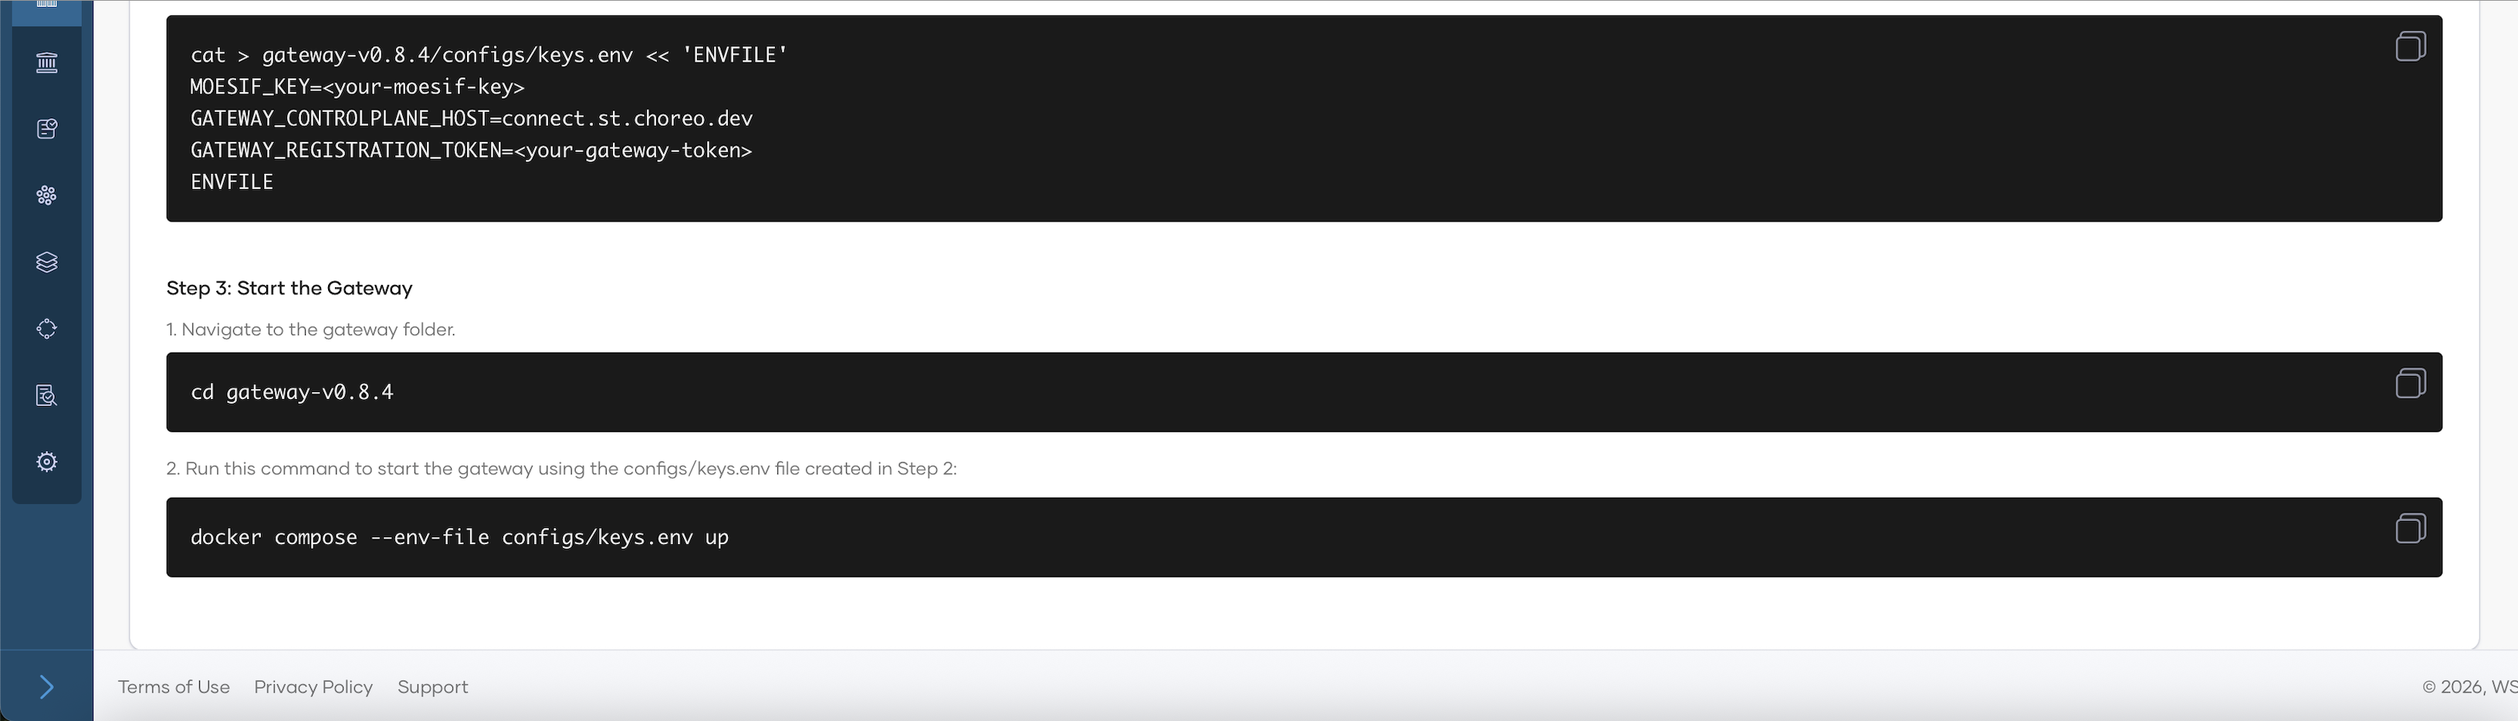
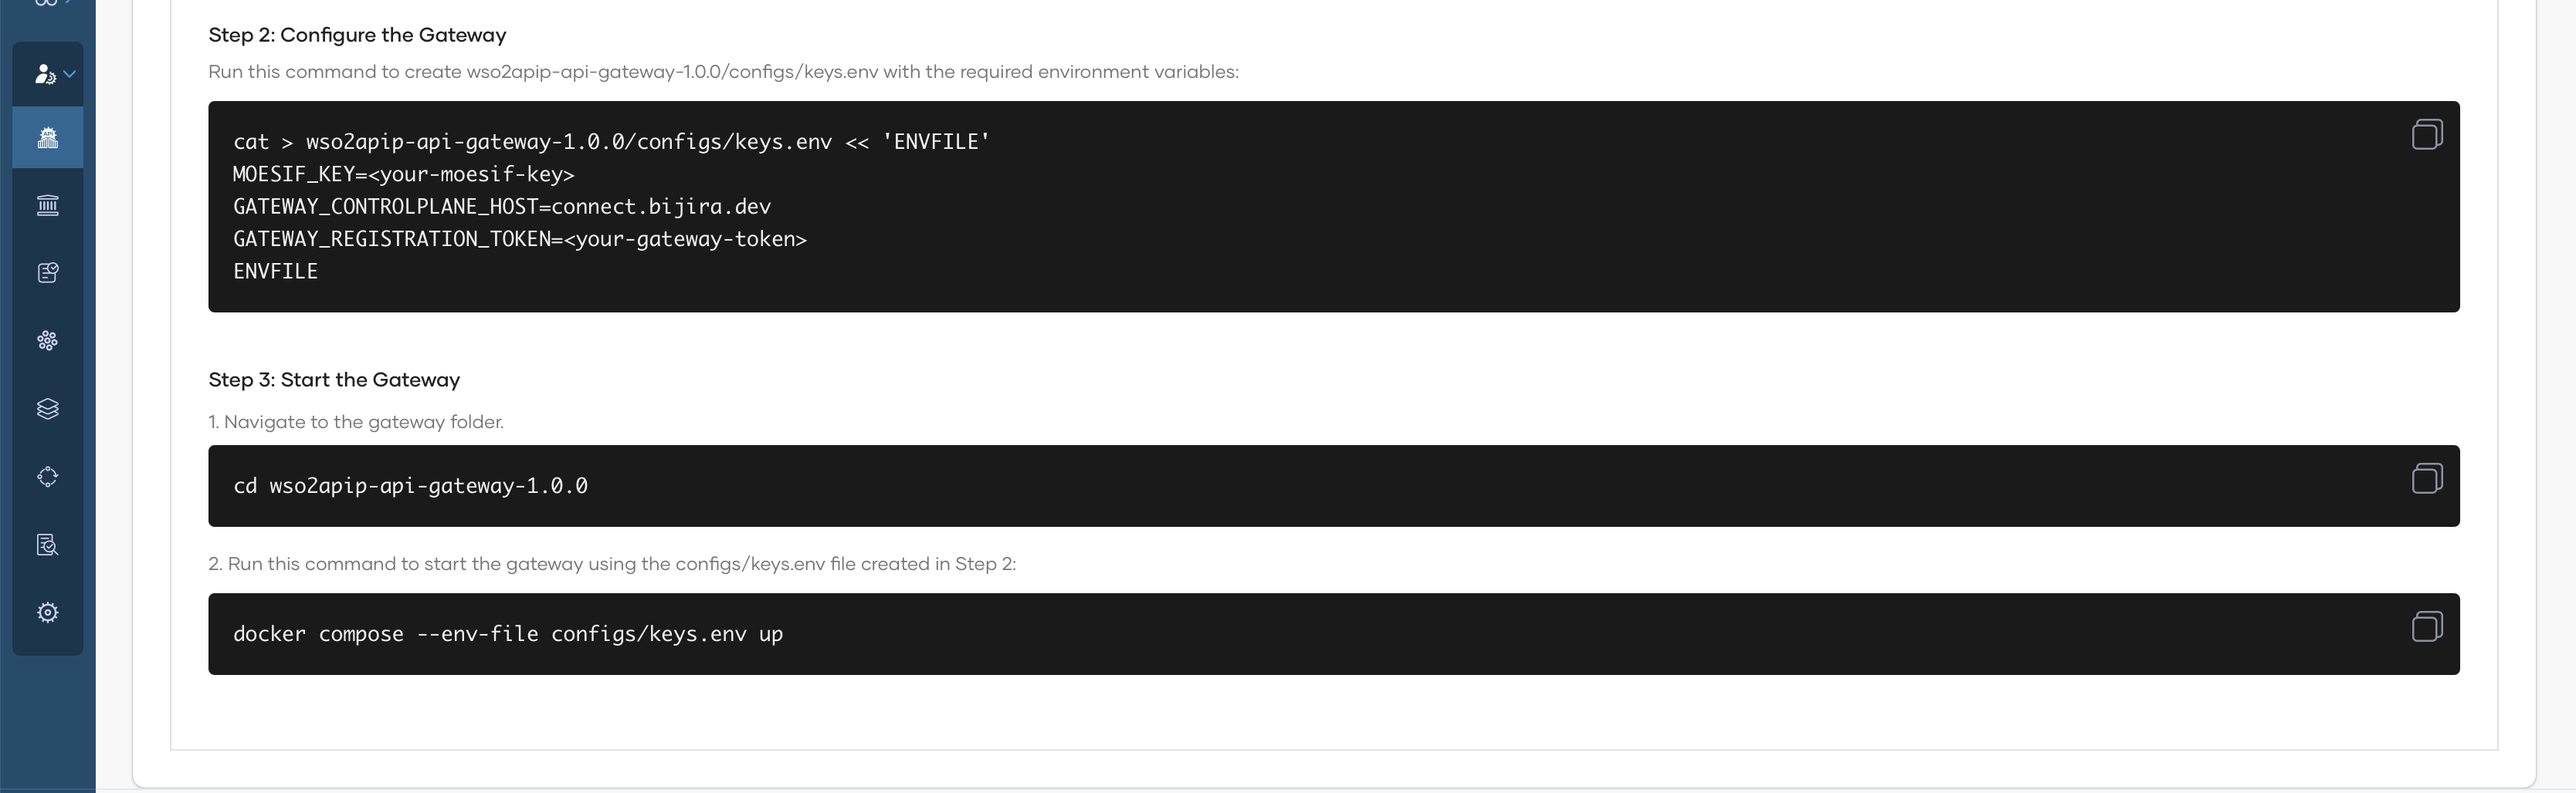
update self hosted gw setup commands to GA

diff --git a/en/docs/ai-gateway/ai-workspace/ai-gateways/setting-up.md b/en/docs/ai-gateway/ai-workspace/ai-gateways/setting-up.md
@@ -78,8 +78,8 @@ The Get Started section provides setup instructions for multiple deployment opti
     Run this command in your terminal to download the gateway:
 
     ```bash
-    curl -sLO https://github.com/wso2/api-platform/releases/download/ai-gateway/v0.8.4/ai-gateway-v0.8.4.zip && \
-    unzip ai-gateway-v0.8.4.zip
+    curl -sLO https://github.com/wso2/api-platform/releases/download/ai-gateway/v1.0.0/wso2apip-ai-gateway-1.0.0.zip && \
+    unzip wso2apip-ai-gateway-1.0.0.zip
     ```
 
     **Step 2: Configure the Gateway**
@@ -87,8 +87,9 @@ The Get Started section provides setup instructions for multiple deployment opti
     Run this command to create the environment configuration file with the required environment variables:
 
     ```bash
-    cat > ai-gateway-v0.8.4/configs/keys.env << 'ENVFILE'
-    GATEWAY_CONTROLPLANE_HOST=platform-api.preview-dv.choreo.dev
+    cat > wso2apip-ai-gateway-1.0.0/configs/keys.env << 'ENVFILE'
+    MOESIF_KEY=<your-moesif-key>
+    GATEWAY_CONTROLPLANE_HOST=connect.bijira.dev
     GATEWAY_REGISTRATION_TOKEN=<your-gateway-token>
     ENVFILE
     ```
@@ -100,7 +101,7 @@ The Get Started section provides setup instructions for multiple deployment opti
     1. Navigate to the gateway folder:
 
         ```bash
-        cd ai-gateway-v0.8.4
+        cd wso2apip-ai-gateway-1.0.0
         ```
 
     2. Run this command to start the gateway using the environment file created in Step 2:
@@ -132,8 +133,8 @@ The Get Started section provides setup instructions for multiple deployment opti
     Run this command in your terminal to download the gateway:
 
     ```bash
-    curl -sLO https://github.com/wso2/api-platform/releases/download/ai-gateway/v0.8.4/ai-gateway-v0.8.4.zip && \
-    unzip ai-gateway-v0.8.4.zip
+    curl -sLO https://github.com/wso2/api-platform/releases/download/ai-gateway/v1.0.0/wso2apip-ai-gateway-1.0.0.zip && \
+    unzip wso2apip-ai-gateway-1.0.0.zip
     ```
 
     **Step 2: Configure the Gateway**
@@ -145,7 +146,7 @@ The Get Started section provides setup instructions for multiple deployment opti
     1. Navigate to the gateway folder:
 
         ```bash
-        cd ai-gateway-v0.8.4
+        cd wso2apip-ai-gateway-1.0.0
         ```
 
     2. Run this command to start the gateway using the environment file created in Step 2:
@@ -165,8 +166,8 @@ The Get Started section provides setup instructions for multiple deployment opti
     Run this command in your terminal to download the gateway:
 
     ```bash
-    curl -sLO https://github.com/wso2/api-platform/releases/download/ai-gateway/v0.8.4/ai-gateway-v0.8.4.zip && \
-    unzip ai-gateway-v0.8.4.zip
+    curl -sLO https://github.com/wso2/api-platform/releases/download/ai-gateway/v1.0.0/wso2apip-ai-gateway-1.0.0.zip && \
+    unzip wso2apip-ai-gateway-1.0.0.zip
     ```
 
     **Step 2: Configure the Gateway**
@@ -178,7 +179,7 @@ The Get Started section provides setup instructions for multiple deployment opti
     1. Navigate to the gateway folder:
 
         ```bash
-        cd ai-gateway-v0.8.4
+        cd wso2apip-ai-gateway-1.0.0
         ```
 
     2. Run this command to start the gateway using the environment file created in Step 2:
@@ -202,7 +203,7 @@ The Get Started section provides setup instructions for multiple deployment opti
     Run this command to install the gateway chart with control plane configurations:
 
     ```bash
-    helm install gateway oci://ghcr.io/wso2/api-platform/helm-charts/gateway --version 0.8.4 \
+    helm install gateway oci://ghcr.io/wso2/api-platform/helm-charts/gateway --version 1.0.0 \
     --set gateway.controller.controlPlane.host="host.docker.internal" \
     --set gateway.controller.controlPlane.port=8443 \
     --set gateway.controller.controlPlane.token.value="your-gateway-token"

diff --git a/en/docs/api-platform-gateway/setting-up.md b/en/docs/api-platform-gateway/setting-up.md
@@ -31,16 +31,16 @@ This guide provides detailed instructions for deploying the API Platform Self-Ho
     Run this command in your terminal to download the gateway:
 
     ```bash
-    curl -sLO https://github.com/wso2/api-platform/releases/download/gateway/v0.9.0/gateway-v0.9.0.zip && \
-    unzip gateway-v0.9.0.zip
+    curl -sLO https://github.com/wso2/api-platform/releases/download/gateway/v1.0.0/wso2apip-api-gateway-1.0.0.zip && \
+    unzip wso2apip-api-gateway-1.0.0.zip
     ```
 
     ### Step 2: Configure the Gateway
 
-    Run this command to create `gateway-v0.9.0/configs/keys.env` with the required environment variables:
+    Run this command to create `wso2apip-api-gateway-1.0.0/configs/keys.env` with the required environment variables:
 
     ```bash
-    cat > gateway-v0.9.0/configs/keys.env << 'ENVFILE'
+    cat > wso2apip-api-gateway-1.0.0/configs/keys.env << 'ENVFILE'
     MOESIF_KEY=<your-moesif-key>
     GATEWAY_CONTROLPLANE_HOST=connect.bijira.dev
     GATEWAY_REGISTRATION_TOKEN=<your-gateway-token>
@@ -52,7 +52,7 @@ This guide provides detailed instructions for deploying the API Platform Self-Ho
     1. Navigate to the gateway folder:
 
         ```bash
-        cd gateway-v0.9.0
+        cd wso2apip-api-gateway-1.0.0
         ```
 
     2. Run this command to start the gateway using the `configs/keys.env` file created in Step 2:
@@ -96,16 +96,16 @@ This guide provides detailed instructions for deploying the API Platform Self-Ho
     Run this command in your terminal to download the gateway:
 
     ```bash
-    curl -sLO https://github.com/wso2/api-platform/releases/download/gateway/v0.9.0/gateway-v0.9.0.zip && \
-    unzip gateway-v0.9.0.zip
+    curl -sLO https://github.com/wso2/api-platform/releases/download/gateway/v1.0.0/wso2apip-api-gateway-1.0.0.zip && \
+    unzip wso2apip-api-gateway-1.0.0.zip
     ```
 
     ### Step 2: Configure the Gateway
 
-    Run this command to create `gateway-v0.9.0/configs/keys.env` with the required environment variables:
+    Run this command to create `wso2apip-api-gateway-1.0.0/configs/keys.env` with the required environment variables:
 
     ```bash
-    cat > gateway-v0.9.0/configs/keys.env << 'ENVFILE'
+    cat > wso2apip-api-gateway-1.0.0/configs/keys.env << 'ENVFILE'
     MOESIF_KEY=<your-moesif-key>
     GATEWAY_CONTROLPLANE_HOST=connect.bijira.dev
     GATEWAY_REGISTRATION_TOKEN=<your-gateway-token>
@@ -120,7 +120,7 @@ This guide provides detailed instructions for deploying the API Platform Self-Ho
     1. Navigate to the gateway folder:
 
         ```bash
-        cd gateway-v0.9.0
+        cd wso2apip-api-gateway-1.0.0
         ```
 
     2. Run this command to start the gateway using the `configs/keys.env` file created in Step 2:
@@ -179,7 +179,7 @@ This guide provides detailed instructions for deploying the API Platform Self-Ho
     Run this command to install the gateway chart with control plane configurations:
 
     ```bash
-    helm install gateway oci://ghcr.io/wso2/api-platform/helm-charts/gateway --version 0.9.0 \
+    helm install gateway oci://ghcr.io/wso2/api-platform/helm-charts/gateway --version 1.0.0 \
       --set gateway.controller.controlPlane.host="connect.bijira.dev" \
       --set gateway.controller.controlPlane.port=443 \
       --set gateway.controller.controlPlane.token.value="your-gateway-token" \

diff --git a/en/docs/api-platform-gateway/getting-started.md b/en/docs/api-platform-gateway/getting-started.md
@@ -56,8 +56,8 @@ Before you begin, ensure you have:
     Run this command in your terminal to download the gateway:
 
     ```bash
-    curl -sLO https://github.com/wso2/api-platform/releases/download/gateway/v0.9.0/gateway-v0.9.0.zip && \
-    unzip gateway-v0.9.0.zip
+    curl -sLO https://github.com/wso2/api-platform/releases/download/gateway/v1.0.0/wso2apip-api-gateway-1.0.0.zip && \
+    unzip wso2apip-api-gateway-1.0.0.zip
     ```
 
     ### Step 2: Configure the Gateway
@@ -65,21 +65,21 @@ Before you begin, ensure you have:
     Run this command to create the gateway configuration with your environment variables:
 
     ```bash
-    cat > gateway-v0.9.0/configs/keys.env << 'ENVFILE'
+    cat > wso2apip-api-gateway-1.0.0/configs/keys.env << 'ENVFILE'
     MOESIF_KEY=<your-moesif-key>
     GATEWAY_CONTROLPLANE_HOST=connect.bijira.dev
     GATEWAY_REGISTRATION_TOKEN=<your-gateway-token>
     ENVFILE
     ```
 
-    Once you copy the above command from the screen, the `<your-moesif-key>` and `<your-gateway-token>` placeholders will be populated and the `gateway-v0.9.0/configs/keys.env` file will be created with these environment variables.
+    Once you copy the above command from the screen, the `<your-moesif-key>` and `<your-gateway-token>` placeholders will be populated and the `wso2apip-api-gateway-1.0.0/configs/keys.env` file will be created with these environment variables.
 
     ### Step 3: Start the Gateway
 
     Navigate to the gateway directory and start it using Docker Compose:
 
     ```bash
-    cd gateway-v0.9.0
+    cd wso2apip-api-gateway-1.0.0
     docker compose --env-file configs/keys.env up
     ```
 
